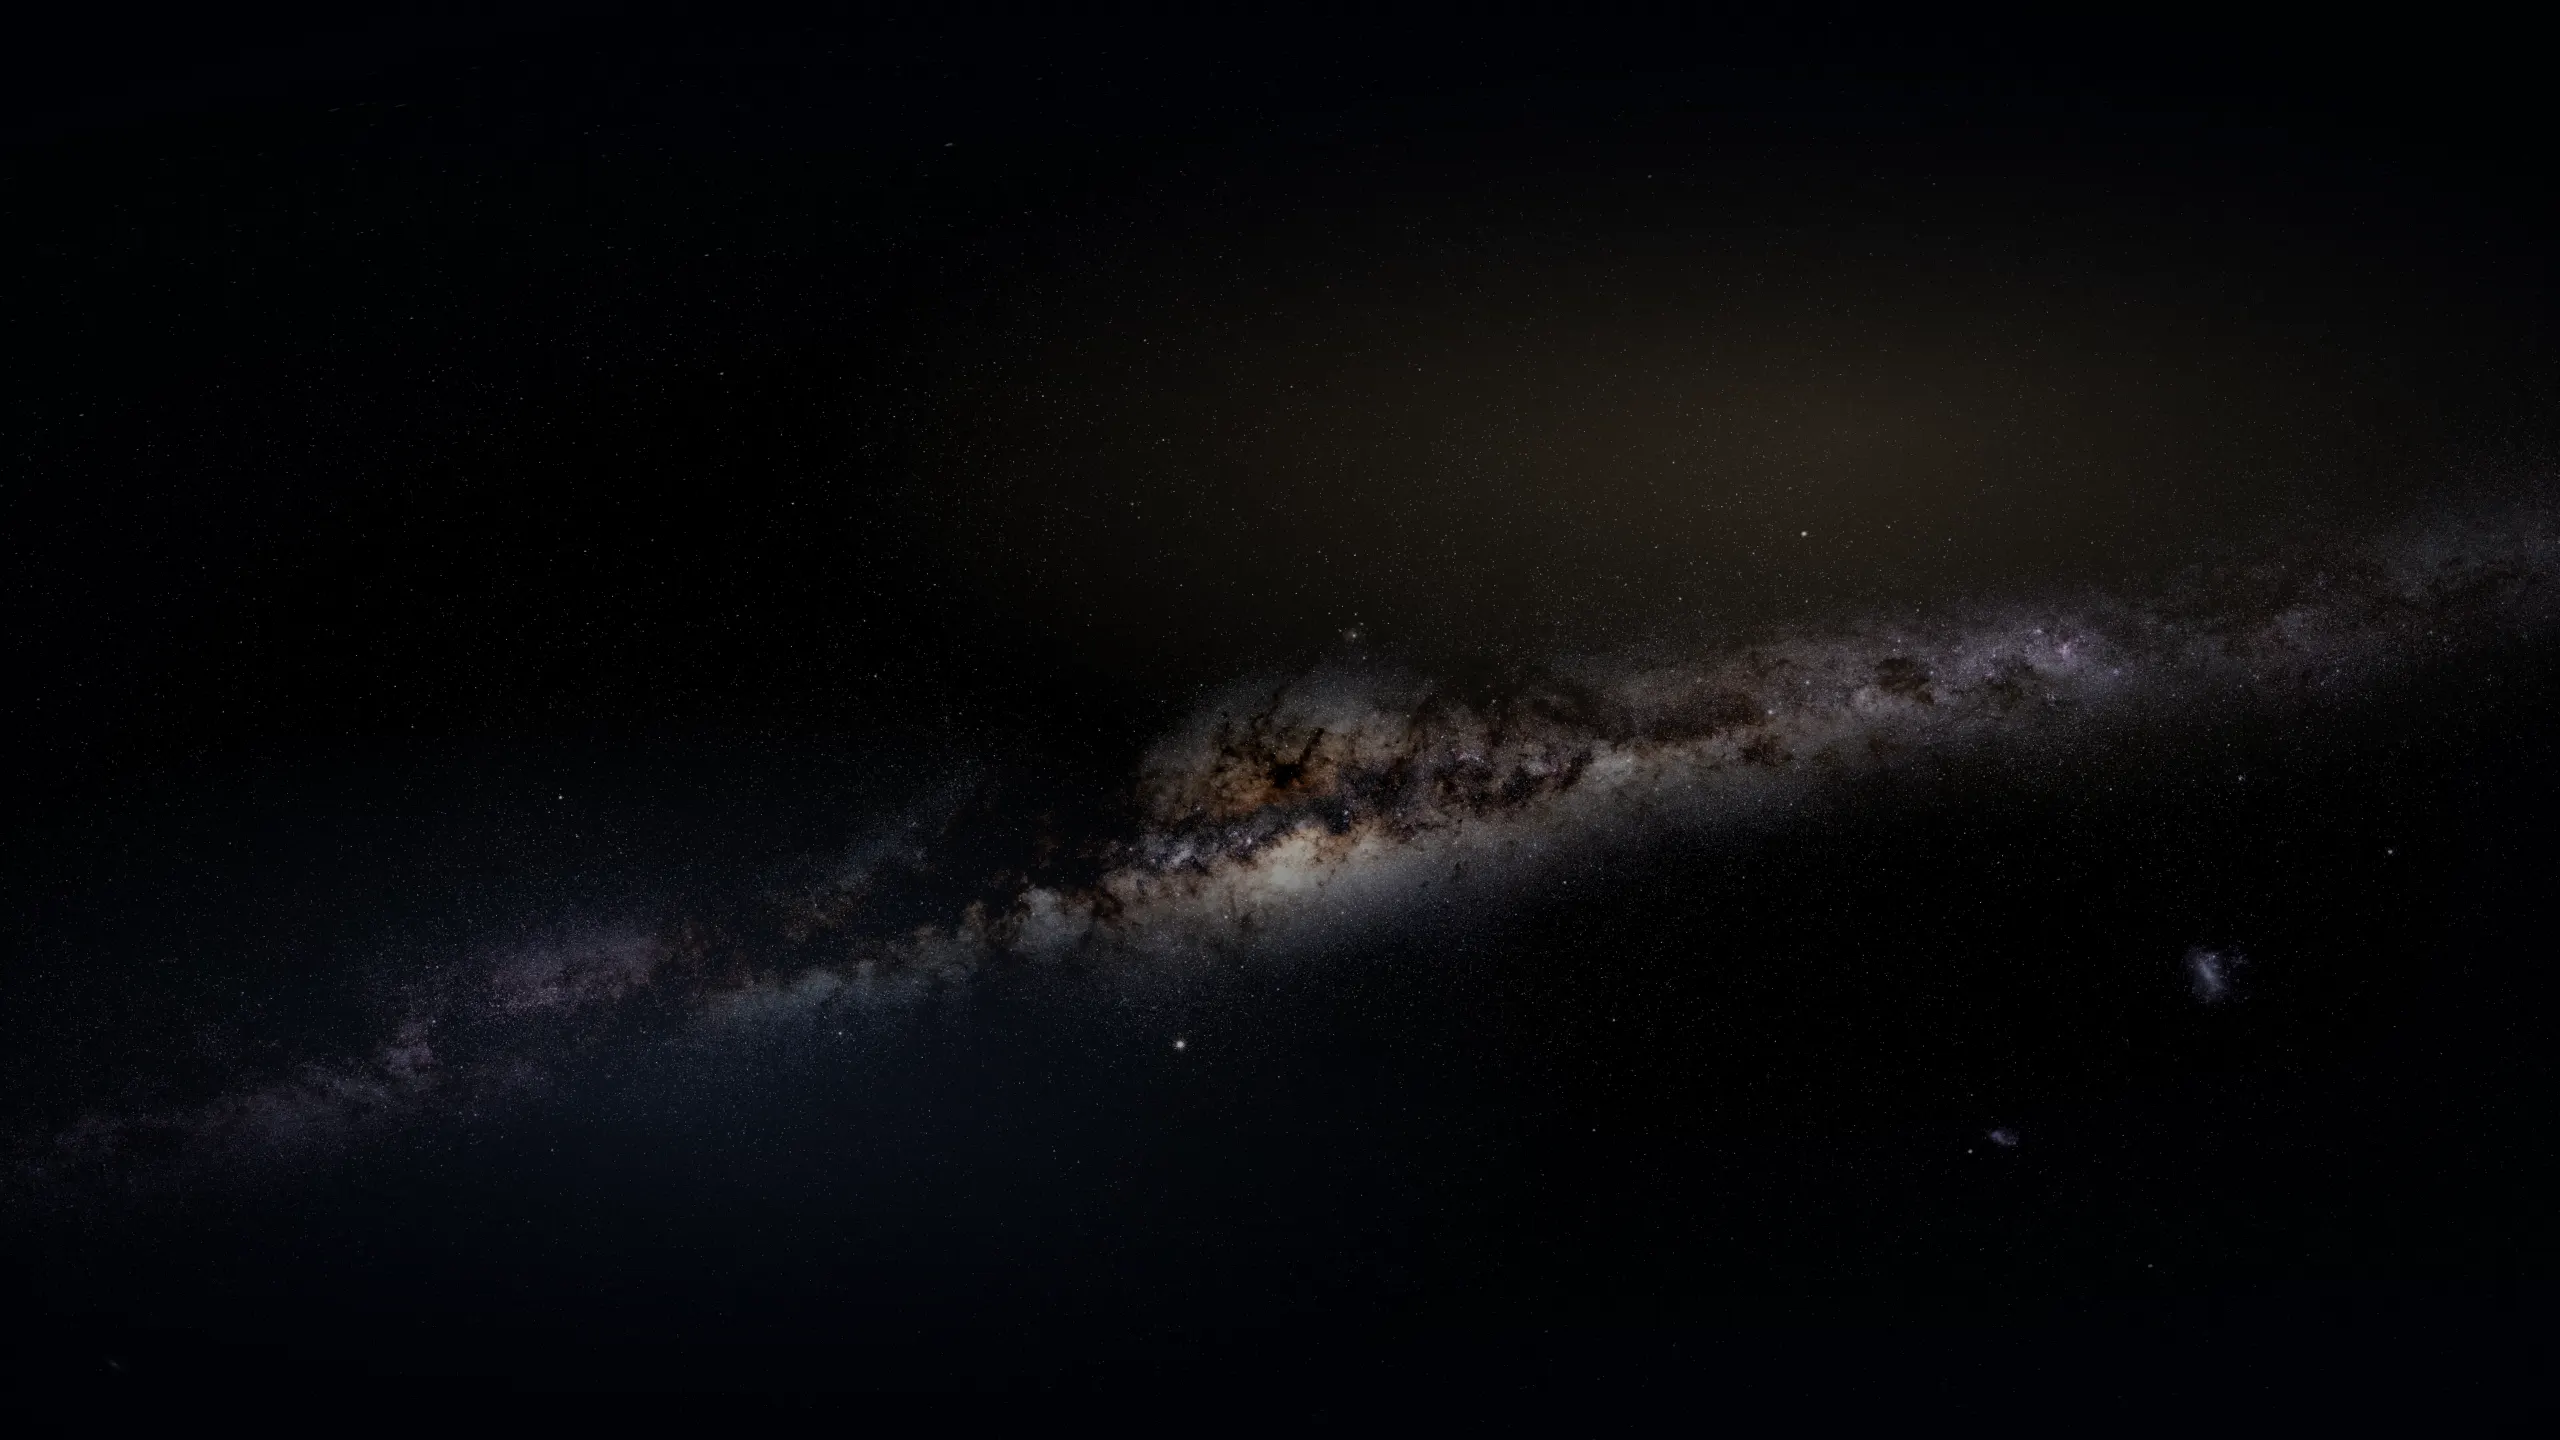
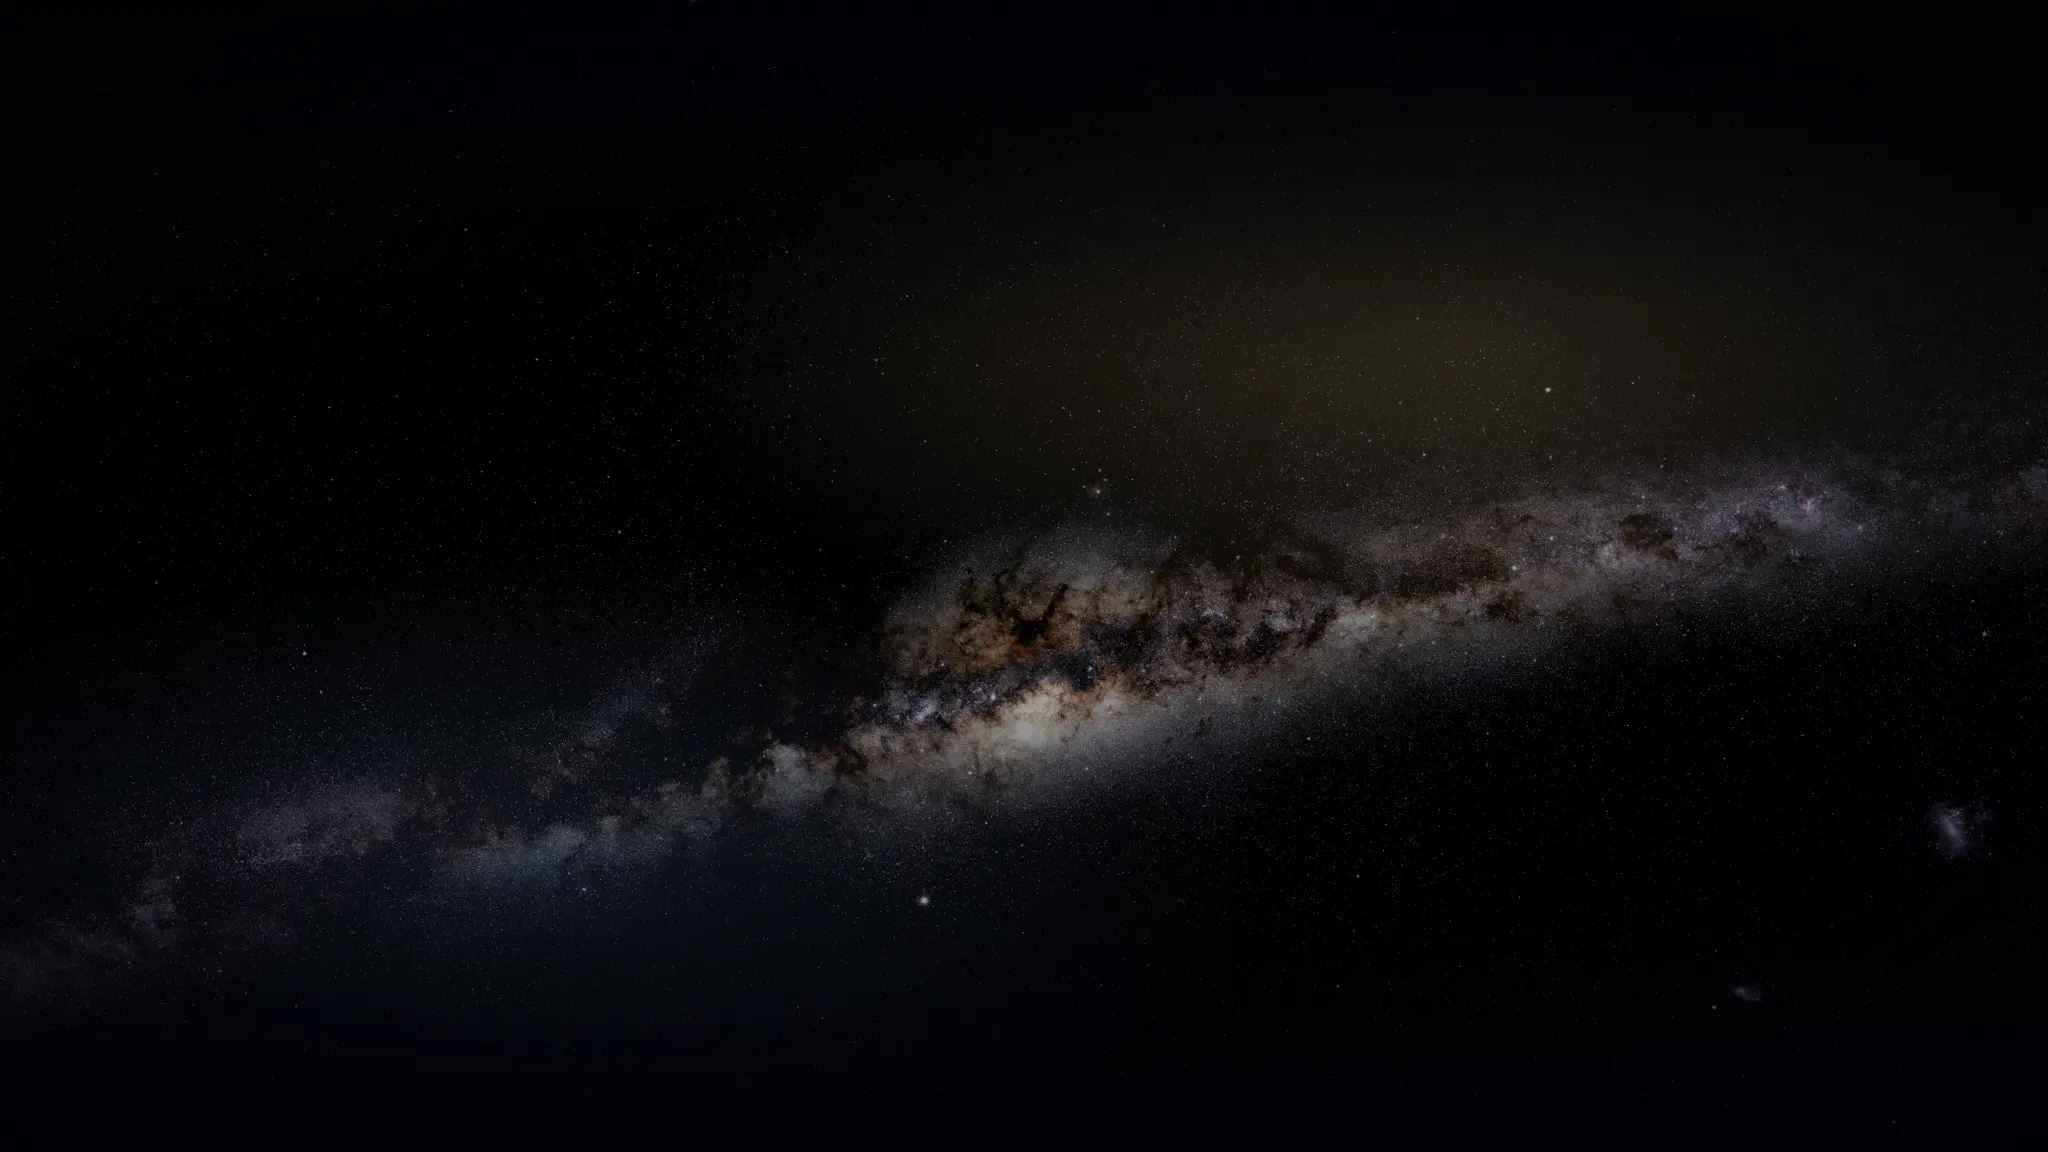
perf: 皮肤随首帧出现（首挂同步）、推迟另一档色调预热、银河底图降到 2048×1152
- 首挂不再等 requestIdleCallback：实测启动时 shell 自身有 ~400ms 长任务，
  让帧会把皮肤拖到它后面（829ms → 317ms 可见）
- 另一档色调的位图推迟到启动 4s 后再预热，省流量模式跳过（首屏少下 226KB）
- bake-photo 改 2048×1152 / q76：银河深色 159→97KB、浅色 226→139KB
- 新增 tools/startup-perf.mjs：冷/热两轮量「样式注入 → 场景挂载」里程碑

diff --git a/lib/client.js b/lib/client.js
@@ -1452,6 +1452,8 @@ html[data-ink-skin] [data-conversation-header-corner] {
       // ---- scene lifecycle --------------------------------------------------
       let scene
       let pending = 0
+      /** 首帧是否已经挂过一次场景（首挂同步、后续让帧）。 */
+      let mountedOnce = false
 
       const applyMotion = () => {
         if (scene) scene.root.dataset.motion = motion ? 'on' : 'off'
@@ -1485,19 +1487,29 @@ html[data-ink-skin] [data-conversation-header-corner] {
       }
 
       /**
-       * Mounting is deferred: apply() runs while the shell is still building its
-       * first frame, and appending a full-viewport layer into that frame is what
-       * makes the boot stutter. Wait for the next frame, then for idle time.
+       * 首次挂载是同步的，之后才让帧。
+       *
+       * 早先一律「下一帧 + 空闲」再做，本意是别打断首帧；实测却发现启动时 shell
+       * 自己有一段 400 ms 左右的长任务，让帧的结果是皮肤排在它后面 —— 用户先看到
+       * 一瞬没有皮肤的界面（实测晚 ~470 ms），比省下那十几毫秒明显得多。
+       * 建一层 11 个 div（+ 一张已预热的图）本身很便宜，所以首挂就顺手做掉；
+       * 真正需要让帧的是「切皮肤」那种重排。
        */
       const scheduleScene = (id) => {
         const token = ++pending
+        if (mountedOnce !== true) {
+          mountedOnce = true
+          if (family === id) buildScene(id)
+          return
+        }
         const raf = typeof requestAnimationFrame === 'function' ? requestAnimationFrame : (fn) => setTimeout(fn, 16)
         raf(() => {
           if (token !== pending || family !== id) return
           const run = () => {
             if (token === pending && family === id) buildScene(id)
           }
-          if (typeof requestIdleCallback === 'function') requestIdleCallback(run, { timeout: 900 })
+          // 只让出一帧：timeout 把上限压到 200 ms，启动慢的机器上也不会等满一秒。
+          if (typeof requestIdleCallback === 'function') requestIdleCallback(run, { timeout: 200 })
           else setTimeout(run, 120)
         })
       }
@@ -1605,13 +1617,18 @@ html[data-ink-skin] [data-conversation-header-corner] {
         },
       }
 
-      // Warm the other tone while idle: flipping 浅色/深色 never waits for a fetch.
-      const idle = typeof requestIdleCallback === 'function' ? requestIdleCallback : (fn) => setTimeout(fn, 600)
-      idle(() => {
+      // 另一档色调的图（约 160-230 KB）不再和首屏抢带宽：等界面安定之后再预热，
+      // 那时翻「浅色/深色」仍然是瞬时的。省流量模式下干脆不预热。
+      const warmTone = () => {
         const active = SKINS[family]
         if (!active) return
+        if (navigator.connection?.saveData === true) return
         preload(active, toneNow() === TONE_DARK ? TONE_LIGHT : TONE_DARK, 'prefetch')
-      })
+      }
+      setTimeout(() => {
+        if (typeof requestIdleCallback === 'function') requestIdleCallback(warmTone, { timeout: 4000 })
+        else warmTone()
+      }, 4000)
 
       // Handy for the offline preview harness (no effect on the real shell).
       if (module.exports.__art) module.exports.__art.skin = skin

diff --git a/README.md b/README.md
@@ -204,7 +204,24 @@ node tools/bake-photo.mjs all   # art/galaxy-photo.html → lib/assets/galaxy-{l
 | 运行时滤镜 | 0 |
 | 运行时 SVG 节点 | 3（三个圆环，避免方角化） |
 | 样式表 `<style>` | 1 |
-| 场景挂载时机 | `requestAnimationFrame` → `requestIdleCallback`（不阻塞首屏） |
+| 场景挂载时机 | 首次同步挂载（与皮肤一起出现在第一帧），切换时才让帧 |
+
+### 启动为什么快 / 曾经慢在哪
+
+`tools/startup-perf.mjs` 在真实 host 里量「从导航到皮肤可见」的每个里程碑（脚本注入的观测器比应用脚本更早运行）：
+
+| 里程碑（点号后为实测 ms，warm） | 0.2.3 | 0.2.4 |
+| --- | --- | --- |
+| DOMContentLoaded | 148 | 137 |
+| 皮肤样式注入（`apply()` 完成） | 369 | 317 |
+| 场景挂载（画面出现） | **829** | **317** |
+| 首屏下载的位图（银河深色档） | 159 + 226 KB | **97 KB** |
+
+三处改动，都是「把不属于首屏的东西从首屏挪开」：
+
+1. **首挂不再等空闲**。原来一律 `requestAnimationFrame` → `requestIdleCallback(fn, { timeout: 900 })`，本意是别打断首帧；实测启动时 shell 自己有一段 ~400 ms 的长任务，让帧的结果是皮肤排在它后面，用户先看到一瞬没有皮肤的界面（晚约 420 ms）。建一层 11 个 div 很便宜，首挂就同步做掉，切皮肤时才让帧。
+2. **另一档色调的图不再抢带宽**。原来挂载后立刻在空闲时预热「浅色/深色」另一张图（226 KB），等于首屏多下一份。现在推迟到启动 4 s 之后再预热（省流量模式下干脆不预热），第一次翻色调最多等一次下载。
+3. **银河底图重新烘焙到 2048×1152 / q76**。2560×1440 在 1680×1000 的窗口里本来就是下采样，降到 2048 后 159→97 KB、226→139 KB，解码面积 -36%，观感无差别（`background-size: cover`，仍然是缩小）。
 
 ## 七、目录结构
 
@@ -239,6 +256,7 @@ node tools/serve.mjs 54777
 | `tools/probe-overlay.mjs` | 真实 shell 里「预置皮肤 → 执行动作 → 截图 + 回显可疑底色」（查发白/漏色特别有效） |
 | `tools/probe-settings.mjs` | 打开设置并度量弹层底色、遮罩、稳定钩子、我们那一行是否渲染 |
 | `tools/perf.mjs` | 首屏体检：boot marks / long tasks / 空闲增量 / 场景自省 |
+| `tools/startup-perf.mjs` | 真实 host 的启动体检：冷/热两轮，量「样式注入 → 场景挂载」各里程碑与首屏位图字节 |
 | `tools/probe-file.mjs` | 对本地页面求值并回显 console / 异常 |
 
 截图与探针都走 **headless Edge + CDP**，不需要 playwright（Windows 上 Edge 是系统自带的）。
